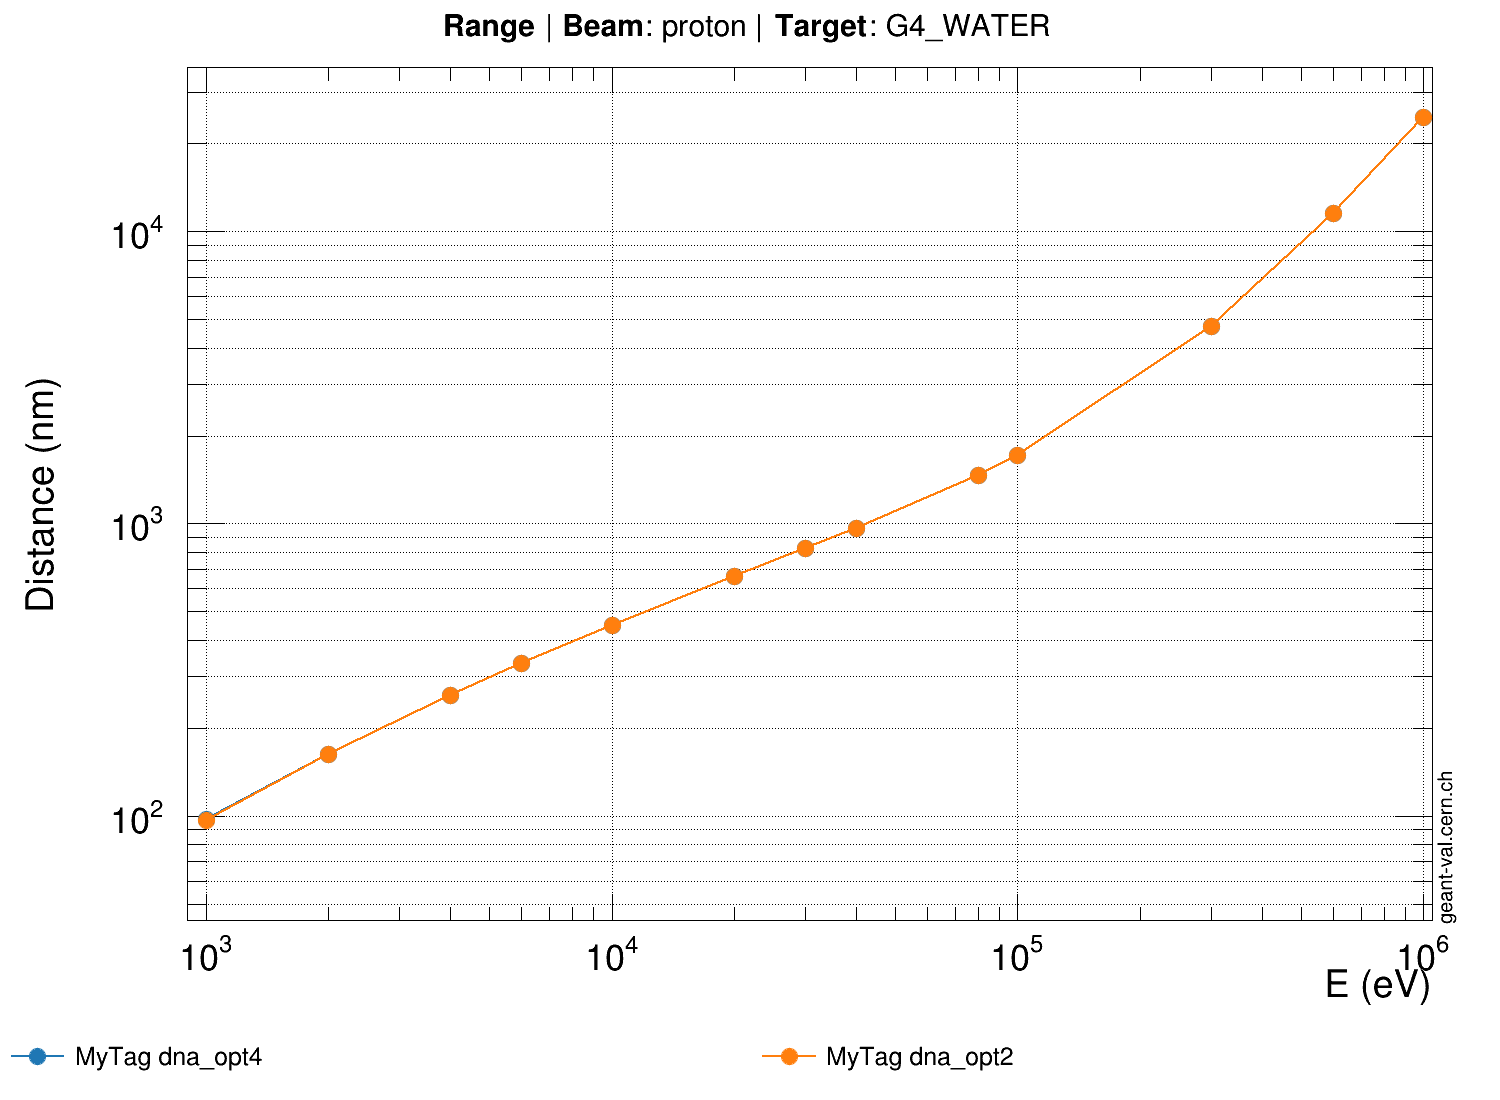
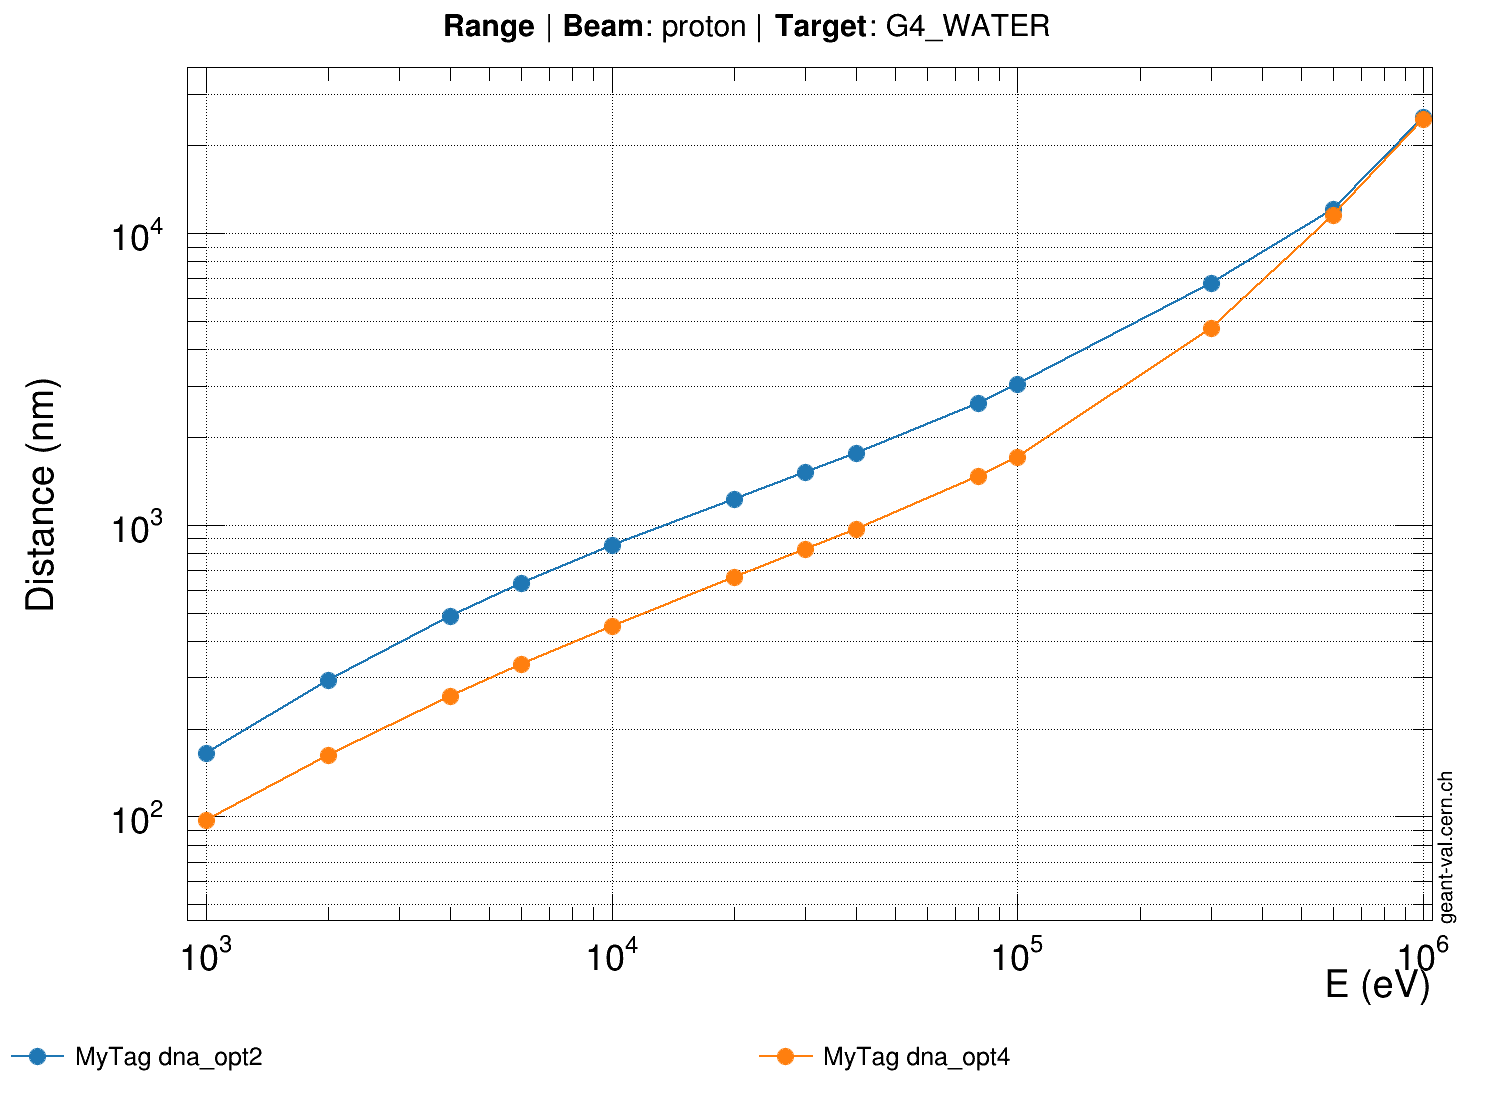
range/proton.conf/MyTag : mer. mai 24 21:47:05 CEST 2023

diff --git a/assets/OUTPUTJSON/geant4/MyTag/x86_64/range/proton.conf.c b/assets/OUTPUTJSON/geant4/MyTag/x86_64/range/proton.conf.c
@@ -1766,3 +1766,139 @@ double gvp_id-1_yerrors[13] = {
   0,
   0
 };
+// Tool:               GEANT4
+// Version:            MyTag
+// Model:              dna_opt2
+// Observable:         range
+// Target:             G4_WATER
+// Beam Particle:      proton
+// Secondary Particle: None
+
+double gvp_id-1_x[13] = {
+  1000,
+  2000,
+  4000,
+  6000,
+  10000,
+  20000,
+  30000,
+  40000,
+  80000,
+  100000,
+  300000,
+  600000,
+  1e+06
+};
+double gvp_id-1_y[13] = {
+  165.176,
+  294.03,
+  485.463,
+  631.001,
+  851.27,
+  1230.46,
+  1515.49,
+  1761.89,
+  2624.16,
+  3040.24,
+  6724.43,
+  12142.2,
+  25124.3
+};
+double gvp_id-1_xerrors[13] = {
+  0,
+  0,
+  0,
+  0,
+  0,
+  0,
+  0,
+  0,
+  0,
+  0,
+  0,
+  0,
+  0
+};
+double gvp_id-1_yerrors[13] = {
+  0,
+  0,
+  0,
+  0,
+  0,
+  0,
+  0,
+  0,
+  0,
+  0,
+  0,
+  0,
+  0
+};
+// Tool:               GEANT4
+// Version:            MyTag
+// Model:              dna_opt4
+// Observable:         range
+// Target:             G4_WATER
+// Beam Particle:      proton
+// Secondary Particle: None
+
+double gvp_id-1_x[13] = {
+  1000,
+  2000,
+  4000,
+  6000,
+  10000,
+  20000,
+  30000,
+  40000,
+  80000,
+  100000,
+  300000,
+  600000,
+  1e+06
+};
+double gvp_id-1_y[13] = {
+  97.5713,
+  162.432,
+  258.069,
+  332.877,
+  451.097,
+  660.954,
+  823.597,
+  965.654,
+  1468.11,
+  1715,
+  4749,
+  11560.4,
+  24690.5
+};
+double gvp_id-1_xerrors[13] = {
+  0,
+  0,
+  0,
+  0,
+  0,
+  0,
+  0,
+  0,
+  0,
+  0,
+  0,
+  0,
+  0
+};
+double gvp_id-1_yerrors[13] = {
+  0,
+  0,
+  0,
+  0,
+  0,
+  0,
+  0,
+  0,
+  0,
+  0,
+  0,
+  0,
+  0
+};
